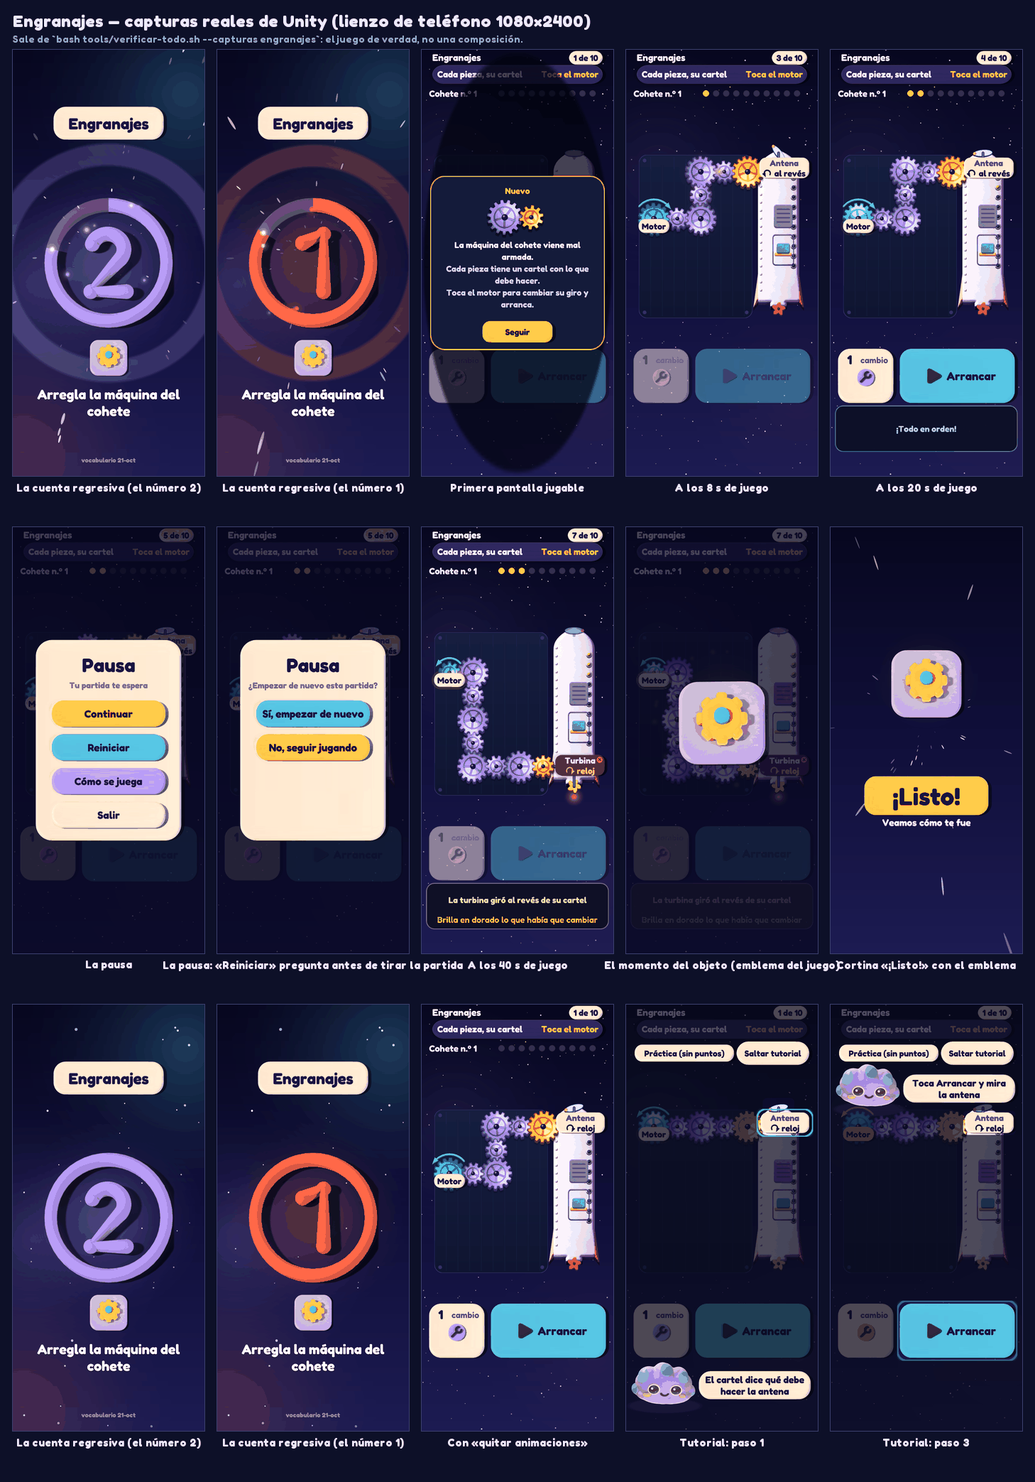
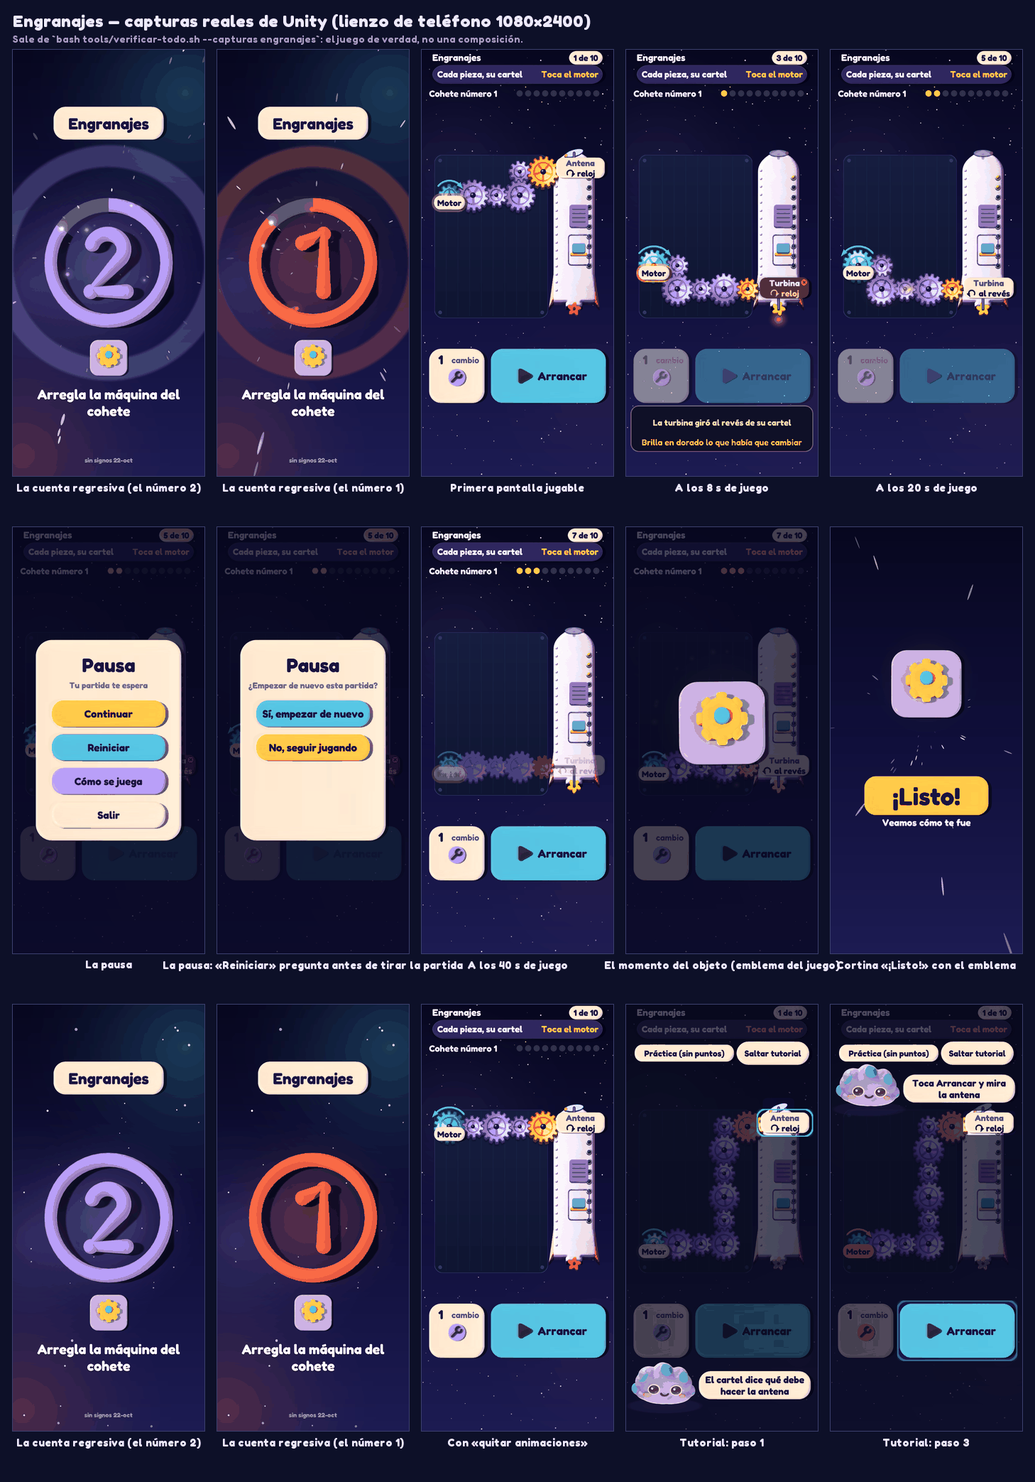
Tarea 161: Unity sin signos (sin "x", sin "n.o" y sin "%" pegado a la cifra)
Regla de Ricardo "sin palabras sueltas", la misma de la app desde la Tarea 160, ahora en lo que dibujan los juegos.

- GameHud: "3 seguidos" en lugar de "x3 seguidos" (sigue apareciendo desde 2).
- Correo: "Imparable! 20 seguidos", "Maestro del correo! 30 seguidos" y "Cartas bien puestas: 8 de 11 · 5 seguidas".
- Piloto: "Puntos dobles" y el chip "1.250 puntos dobles". Intrusa: "puntos dobles" y "50 % mas de puntos". Disparate: "Antena encendida: 50 % mas de puntos".
- Engranajes: "Cohete numero N" y "Tu cohete numero N"; la cabecera gana ancho (titulo de 160 dp, luces desde 184 cada 16).
- Aterrizaje: marcas de la regla y mision con espacio ante el "%" ("0 %", "40 %", "100 %") y "Aterrizaje 3" en lugar de "N.o 3" en el chip sin total.
- El "x" de Carga exacta (signo de multiplicar de la cuenta) se queda.
- HudRulesTests: guardia nueva (NoGameDrawsSignsOrGluedPercents_InItsSources) que falla con "x" (salvo ese operador), "n.o" y "%" pegado en textos visibles; ya atrapo un "N.o" en Aterrizaje.
- StyleStamp "sin signos 22-oct"; lamina docs/previews/tarea-161.png y documentacion al dia.

diff --git a/tools/previews/tarea_161.py b/tools/previews/tarea_161.py
@@ -1,0 +1,119 @@
+# -*- coding: utf-8 -*-
+"""Lámina «antes | después» de la Tarea 161, «Unity sin signos» (22-oct-2026): `docs/previews/tarea-161.png`.
+Lo que la 160 dejó anotado para los juegos de Unity, con la misma regla de Ricardo, «sin palabras sueltas»: nada de «×» (salvo el signo de multiplicar de la cuenta de Carga exacta), nada de «n.º» y un «%» nunca pegado a la cifra.
+La tabla lista CADA texto que cambió, por juego; debajo, capturas REALES de Unity en forma de teléfono (1080 × 2400, `bash tools/verificar-todo.sh --capturas <juego>`, tomas sueltas en `unity/test-results/capturas/<juego>/`, que no van a git).
+Uso:  python -I tools/previews/tarea_161.py [captura.png ...]      → docs/previews/tarea-161.png   (las capturas se pasan por ruta, con su rótulo tras «=»: ruta=rótulo)
+"""
+import os, sys
+from PIL import Image, ImageDraw, ImageFont
+
+sys.stdout.reconfigure(encoding='utf-8')
+HERE = os.path.dirname(os.path.abspath(__file__)); ROOT = os.path.abspath(os.path.join(HERE, '..', '..'))
+PREV = os.path.join(ROOT, 'docs', 'previews'); OUT = os.path.join(PREV, 'tarea-161.png')
+FONTS = os.path.join(ROOT, 'app', 'src', 'main', 'res', 'font')
+NAVY, SUN, DIM, CREAM, LIME = (20, 18, 63), (255, 203, 69), (200, 196, 235), (245, 235, 219), (155, 229, 100)
+W = 2000; MG = 40; COLW = (W - 2 * MG - 40) // 2
+
+
+def font(px, bold=True): return ImageFont.truetype(os.path.join(FONTS, 'fredoka.ttf' if bold else 'nunito_regular.ttf'), int(px))
+
+
+def wrap(d, text, fnt, width):
+    lines, cur = [], ''
+    for word in text.split(' '):
+        t = (cur + ' ' + word).strip()
+        if d.textlength(t, font=fnt) <= width: cur = t
+        else: lines.append(cur); cur = word
+    if cur: lines.append(cur)
+    return lines or ['']
+
+
+# ------------------------------------------------------------------ cada texto que cambió: (juego, [(antes, después)])
+TABLA = [
+    ('El marcador común (todos los juegos con aciertos seguidos)', [
+        ('×3 seguidos   (el chip aparece desde 2)', '3 seguidos   (sigue apareciendo desde 2)'),
+    ]),
+    ('Correo Estelar', [
+        ('¡Imparable! ×20   ·   ¡Maestro del correo! ×30', '¡Imparable! 20 seguidos   ·   ¡Maestro del correo! 30 seguidos'),
+        ('Cartas bien puestas: 8 de 11 · ×5 seguidas', 'Cartas bien puestas: 8 de 11 · 5 seguidas'),
+        ('Final del juego: «78 %» con «8 de 11 encargos cumplidos» debajo', 'Sin cambio: ya tenía el espacio ante el «%» y su «de qué» en la línea de abajo'),
+    ]),
+    ('Piloto Estelar', [
+        ('¡Hiperimpulso!  ·  Puntos ×2', '¡Hiperimpulso!  ·  Puntos dobles'),
+        ('1.250 puntos ×2   (el chip de puntos durante el hiperimpulso)', '1.250 puntos dobles'),
+    ]),
+    ('La estrella intrusa', [
+        ('La nombraste tú · puntos ×2', 'La nombraste tú · puntos dobles'),
+        ('¡Cielo despejado!  ·  Puntos × 1,5', '¡Cielo despejado!  ·  50 % más de puntos'),
+    ]),
+    ('¿Verdad o disparate?', [
+        ('¡Transmisión perfecta!  ·  Antena encendida: puntos × 1,5', '¡Transmisión perfecta!  ·  Antena encendida: 50 % más de puntos'),
+    ]),
+    ('Engranajes', [
+        ('Cohete n.º 3   (cabecera del cohete)', 'Cohete número 3   (el título pasa de 130 a 160 dp y las 10 luces empiezan en x = 184, cada 16: antes en 150, cada 19)'),
+        ('Tu cohete n.º 3 · va a la órbita   (el despegue)', 'Tu cohete número 3 · va a la órbita'),
+    ]),
+    ('Aterrizaje Lunar', [
+        ('Aterriza en 40%   (la misión)', 'Aterriza en 40 %'),
+        ('0%  …  100%   (las marcas de la regla de porcentajes)', '0 %  …  100 %'),
+        ('Arrastra la nave hasta el 40% y suelta   (el tutorial de Nubi)', 'Arrastra la nave hasta el 40 % y suelta'),
+        ('N.º 3   (el chip del marcador cuando la partida es con reloj y no tiene total; lo atrapó la guardia nueva)', 'Aterrizaje 3'),
+    ]),
+    ('Carga exacta', [
+        ('Se queda: el «×» de la cuenta es el signo de multiplicar de un operador, no un texto', 'Sin cambio (la guardia de `HudRulesTests` lo exceptúa por nombre)'),
+    ]),
+    ('Fuera de esta tarea (se piden aparte)', [
+        ('+12   (el «+N» que flota al sumar puntos, en seis juegos)', 'Sin cambio: es una cifra flotante, no una frase; si Ricardo lo quiere, es otra tarea'),
+    ]),
+]
+
+
+def main():
+    caps_args = [a for a in sys.argv[1:] if os.path.exists(a.split('=')[0])]
+    probe = ImageDraw.Draw(Image.new('RGB', (10, 10)))
+    F_T, F_H, F_P, F_B, F_C = font(58), font(34), font(24, False), font(25, False), font(22, False)
+    intro = ('Lo que la Tarea 160 dejó anotado para Unity, con la misma regla de Ricardo, «sin palabras sueltas»: ya no hay «×» (salvo el signo de multiplicar de Carga exacta), ni «n.º», ni un «%» pegado a la cifra. '
+             'Una guardia nueva en HudRulesTests (NoGameDrawsSignsOrGluedPercents_InItsSources) mira el código de los juegos y falla si vuelve alguno; el sello de las compilaciones de depuración pasa a «sin signos 22-oct».')
+    intro_l = wrap(probe, intro, F_P, W - 2 * MG)
+    H = MG + 70 + 32 * len(intro_l) + 62
+    bloques = []
+    for titulo, pares in TABLA:
+        filas = [(wrap(probe, a, F_B, COLW - 20), wrap(probe, b, F_B, COLW - 20)) for a, b in pares]
+        bloques.append((titulo, filas))
+        H += 60 + sum(max(len(la), len(lb)) * 31 + 18 for la, lb in filas) + 30
+    caps = []
+    for a in caps_args:
+        path, _, rot = a.partition('=')
+        im = Image.open(path).convert('RGB'); w = 440
+        im = im.resize((w, int(im.height * w / im.width)), Image.LANCZOS)
+        caps.append((rot or os.path.basename(path), im.crop((0, 0, w, min(im.height, 960)))))
+    if caps: H += 60 + max(i.height for _, i in caps) + 80
+    H += 40
+    sheet = Image.new('RGB', (W, H), NAVY); d = ImageDraw.Draw(sheet); y = MG
+    d.text((MG, y), 'Unity sin signos (Tarea 161): antes | después', font=F_T, fill=SUN); y += 70
+    for ln in intro_l: d.text((MG, y), ln, font=F_P, fill=CREAM); y += 32
+    d.text((MG, y + 4), 'Cada fila: a la izquierda, ANTES (gris); a la derecha, DESPUÉS (verde).', font=F_P, fill=DIM); y += 30 + 32
+    for titulo, filas in bloques:
+        d.text((MG, y), titulo, font=F_H, fill=SUN); y += 52
+        for la, lb in filas:
+            h = max(len(la), len(lb)) * 31 + 12
+            d.rounded_rectangle((MG, y, MG + COLW, y + h), radius=10, outline=(70, 74, 130), width=1)
+            d.rounded_rectangle((MG + COLW + 40, y, MG + 2 * COLW + 40, y + h), radius=10, outline=(70, 110, 80), width=1)
+            for i, ln in enumerate(la): d.text((MG + 10, y + 6 + i * 31), ln, font=F_B, fill=DIM)
+            for i, ln in enumerate(lb): d.text((MG + COLW + 50, y + 6 + i * 31), ln, font=F_B, fill=LIME)
+            y += h + 6
+        y += 30
+    if caps:
+        d.text((MG, y), 'Cómo queda (capturas reales de Unity en forma de teléfono)', font=F_H, fill=SUN); y += 56
+        x = MG; h = max(i.height for _, i in caps)
+        for rot, im in caps:
+            sheet.paste(im, (x, y)); d.rectangle((x, y, x + im.width - 1, y + im.height - 1), outline=(70, 74, 130), width=1)
+            for k, ln in enumerate(wrap(probe, rot, F_C, im.width)): d.text((x, y + im.height + 6 + k * 26), ln, font=F_C, fill=LIME)
+            x += im.width + 24
+        y += h + 80
+    sheet = sheet.crop((0, 0, W, y + 20)); sheet.save(OUT)
+    print('ok', OUT, sheet.size, '· capturas:', len(caps))
+
+
+if __name__ == '__main__':
+    main()

diff --git a/unity/NeuroVidaCore/Assets/Scripts/Games/Tests/HudRulesTests.cs b/unity/NeuroVidaCore/Assets/Scripts/Games/Tests/HudRulesTests.cs
@@ -341,6 +341,35 @@ namespace NeuroVida.Games.Tests
             Assert.IsEmpty(found, "palabras desterradas en lo que se dibuja:\n" + string.Join("\n", found));
         }
 
+        private static readonly Regex GluedPercent = new Regex(@"(^|\d)%");
+        private static readonly Regex AbbreviatedNumber = new Regex(@"[nN]\.º");
+
+        /// <summary>
+        /// Sin signos ni abreviaturas en lo que se dibuja (Tarea 161; regla de Ricardo «sin palabras sueltas», la misma que la app desde la Tarea 160): nada de «×» (la excepción es el «×» de la cuenta de Carga exacta: es el signo de multiplicar de un operador, no un texto),
+        /// nada de «n.º» (se dice «número») y un «%» nunca pegado a la cifra: «40 %», no «40%» (tampoco el «%» suelto de una concatenación, <c>p + "%"</c>). Los juegos retirados, los <c>Debug.Log</c> y lo del Editor quedan fuera.
+        /// </summary>
+        [Test]
+        public void NoGameDrawsSignsOrGluedPercents_InItsSources()
+        {
+            var found = new List<string>();
+            foreach (var (rel, line, text, _) in DrawnStringLiterals())
+            {
+                if (text.Contains("×") && !(rel == "Calculo/CalculoContract.cs" && text == "×")) found.Add(rel + ":" + line + " «" + text + "» dice «×»");
+                if (AbbreviatedNumber.IsMatch(text)) found.Add(rel + ":" + line + " «" + text + "» dice «n.º»");
+                if (GluedPercent.IsMatch(text)) found.Add(rel + ":" + line + " «" + text + "» trae el «%» pegado a la cifra");
+            }
+            Assert.IsEmpty(found, "signos y abreviaturas en lo que se dibuja («3 seguidos», «número 3», «40 %»):\n" + string.Join("\n", found));
+        }
+
+        [Test]
+        public void TheSignsGuard_CatchesWhatItShould_AndLetsThroughWhatIsAllowed()
+        {
+            foreach (var bad in new[] { "×3 seguidos", "Puntos × 1,5", "Cohete n.º 3", "40%", "%", "100%" })
+                Assert.IsTrue(bad.Contains("×") || AbbreviatedNumber.IsMatch(bad) || GluedPercent.IsMatch(bad), "la guardia no atrapa «" + bad + "»");
+            foreach (var good in new[] { "3 seguidos", "50 % más de puntos", "Cohete número 3", "40 %", "0 %", "a 5 % del blanco" })
+                Assert.IsFalse(AbbreviatedNumber.IsMatch(good) || GluedPercent.IsMatch(good), "la guardia atrapa «" + good + "» sin motivo");
+        }
+
         // ------------------------------------------------------------------ puntos de avance
 
         [Test]

diff --git a/unity/NeuroVidaCore/Assets/Scripts/Games/Engranajes/EngranajesGameController.Build.cs b/unity/NeuroVidaCore/Assets/Scripts/Games/Engranajes/EngranajesGameController.Build.cs
@@ -248,7 +248,7 @@ namespace NeuroVida.Games.Engranajes
             _rocketTitle = MakeLabel(_stripLayer, "Title", 17f, UiFonts.Bold, ButtonText, TextAnchor.MiddleLeft);
             _orbitText = MakeLabel(_stripLayer, "Orbit", 16f, UiFonts.Regular, Lavender, TextAnchor.MiddleLeft);
             _rocketTitle.horizontalOverflow = _orbitText.horizontalOverflow = HorizontalWrapMode.Overflow;
-            _rocketTitle.text = "Cohete n.º 1";
+            _rocketTitle.text = "Cohete número 1";
         }
 
         /// <summary>La consigna de arriba, en dos líneas: «Que cada pieza cumpla su cartel» y lo que se puede hacer en la etapa.</summary>
@@ -834,12 +834,12 @@ namespace NeuroVida.Games.Engranajes
             _sceneRoot.anchoredPosition = P(EngranajesLayout.W / 2f + EngranajesLayout.SceneShiftX, _lay.SceneCenterLogicalY);
             foreach (var kv in _sceneFonts) kv.Key.fontSize = Mathf.RoundToInt(kv.Value * Su / k);
 
-            // cabecera: «Cohete n.º N», las 10 luces (x = 150 + 19 k) y los cohetes en órbita
+            // cabecera: «Cohete número N», las 10 luces (x = LightsX0 + LightsStep k) y los cohetes en órbita
             float row1 = _lay.StripTop + 14f, row2 = _lay.StripTop + 34f;
-            SetRect(_rocketTitle.rectTransform, 14f + 65f, row1, 130f, 24f);
+            SetRect(_rocketTitle.rectTransform, 14f + EngranajesLayout.TitleW / 2f, row1, EngranajesLayout.TitleW, 24f);
             SetRect(_orbitText.rectTransform, 14f + 100f, row2, 200f, 20f);
-            for (int i = 0; i < _lights.Length; i++) SetRect(_lights[i].rectTransform, 150f + i * 19f, row1, 12f, 12f);
-            SetRect(_stripGlow.rectTransform, 150f, row1, 36f, 36f);
+            for (int i = 0; i < _lights.Length; i++) SetRect(_lights[i].rectTransform, EngranajesLayout.LightsX0 + i * EngranajesLayout.LightsStep, row1, 12f, 12f);
+            SetRect(_stripGlow.rectTransform, EngranajesLayout.LightsX0, row1, 36f, 36f);
 
             // consigna: dos líneas
             float qy = _lay.QuestionTop + EngranajesLayout.QuestionH / 2f;

diff --git a/unity/NeuroVidaCore/Assets/Scripts/Games/Correo/MailContract.cs b/unity/NeuroVidaCore/Assets/Scripts/Games/Correo/MailContract.cs
@@ -277,7 +277,7 @@ namespace NeuroVida.Games.Correo
         public static string FloatCombo(int combo)
         {
             int tier = combo / ComboStep;
-            return tier <= 1 ? "¡" + combo + " seguidos!" : tier == 2 ? "¡Imparable! ×" + combo : "¡Maestro del correo! ×" + combo;
+            return tier <= 1 ? "¡" + combo + " seguidos!" : tier == 2 ? "¡Imparable! " + combo + " seguidos" : "¡Maestro del correo! " + combo + " seguidos";
         }
         public static string RadioText(MailMoment m) => "hoy NO hace falta encender el faro " + MomentPhrase(m);
 
@@ -287,7 +287,7 @@ namespace NeuroVida.Games.Correo
         public static string EncargosLine(int ok, int all) => all <= 0 ? "Encargos: 0" : "Encargos: " + ok + " de " + all;
         public static string RecapTag(int day) => "Fin del día " + day;
         public static string RecapTitle(int ok, int all) => ok == all ? "¡Todos los encargos!" : "Encargos: " + ok + " de " + all;
-        public static string RecapCards(int right, int total, int bestCombo) => "Cartas bien puestas: " + right + " de " + total + " · ×" + bestCombo + " seguidas";
+        public static string RecapCards(int right, int total, int bestCombo) => "Cartas bien puestas: " + right + " de " + total + " · " + bestCombo + " seguidas";
         public static string RecapClock(int peeks, int good) => "Reloj: lo miraste " + peeks + (peeks == 1 ? " vez" : " veces") + ", " + good + " cerca de la hora";
         public const string RecapRecord = "¡Nuevo récord de cartas en un día perfecto!";
         public const string RecapUp = "Mañana: un poco más difícil", RecapSame = "Mañana: mismo ritmo";

diff --git a/unity/NeuroVidaCore/Assets/Scripts/Games/Engranajes/EngranajesGameController.cs b/unity/NeuroVidaCore/Assets/Scripts/Games/Engranajes/EngranajesGameController.cs
@@ -403,7 +403,7 @@ namespace NeuroVida.Games.Engranajes
             _launchAt = before;
             _launchNumber = _shownOrbit + 1;
             _launchTitle.text = "¡Despegue!";
-            _launchLine1.text = "Tu cohete n.º " + _launchNumber;
+            _launchLine1.text = "Tu cohete número " + _launchNumber;
             _launchLine2.text = "va a la órbita";
             _launchLayer.gameObject.SetActive(true);
             EngranajesSounds.Play(EngranajesSfx.Launch);                  // el despegue: un propio de HITO (no el Record de la app)
@@ -447,7 +447,7 @@ namespace NeuroVida.Games.Engranajes
         {
             t.BeginPractice();
             _guided = true;
-            _stripLayer.gameObject.SetActive(false);                    // «Cohete n.º N» y las 10 luces: en la práctica ese lugar es de la fila fija del tutorial (Tarea 127)
+            _stripLayer.gameObject.SetActive(false);                    // «Cohete número N» y las 10 luces: en la práctica ese lugar es de la fila fija del tutorial (Tarea 127)
             while (!_baked) yield return null;                         // el arte se hornea mientras Nubi se presenta
             var coach = t.Coach;
             // «Nubi entrenadora»: una máquina de la etapa 1 en la que la antena viene fallando, con tres focos. Los dos de «tocar» congelan el juego y el toque en el hueco es el de verdad:

diff --git a/unity/NeuroVidaCore/Assets/Scripts/Games/Correo/Tests/MailContractTests.cs b/unity/NeuroVidaCore/Assets/Scripts/Games/Correo/Tests/MailContractTests.cs
@@ -820,9 +820,10 @@ namespace NeuroVida.Games.Correo.Tests
             Assert.AreEqual("Si llega una carta con lazo,", MailContract.CueLineA(MailCue.Lazo));
             Assert.AreEqual("Se pasó la hora: al anochecer", MailContract.FloatLateWindow(MailMoment.Noche));
             Assert.AreEqual("¡10 seguidos!", MailContract.FloatCombo(10));
-            Assert.AreEqual("¡Imparable! ×20", MailContract.FloatCombo(20));
-            Assert.AreEqual("¡Maestro del correo! ×30", MailContract.FloatCombo(30));
-            Assert.AreEqual("¡Maestro del correo! ×40", MailContract.FloatCombo(40));
+            Assert.AreEqual("¡Imparable! 20 seguidos", MailContract.FloatCombo(20));
+            Assert.AreEqual("¡Maestro del correo! 30 seguidos", MailContract.FloatCombo(30));
+            Assert.AreEqual("¡Maestro del correo! 40 seguidos", MailContract.FloatCombo(40));
+            Assert.AreEqual("Cartas bien puestas: 8 de 11 · 5 seguidas", MailContract.RecapCards(8, 11, 5), "sin «×»: el número y su palabra");
             Assert.AreEqual("hoy NO hace falta encender el faro a media tarde", MailContract.RadioText(MailMoment.Tarde));
             Assert.AreEqual("Día 2 de 4", MailContract.DayTitle(2));
             Assert.AreEqual("Día 3 de 4", MailContract.DayHud(3));

diff --git a/unity/NeuroVidaCore/Assets/Scripts/Games/Aterrizaje/LandingContract.cs b/unity/NeuroVidaCore/Assets/Scripts/Games/Aterrizaje/LandingContract.cs
@@ -196,9 +196,9 @@ namespace NeuroVida.Games.Aterrizaje
             t.Min = 0;
             t.Max = 100;
             t.Target = p;
-            t.Label = p + "%";
-            t.MinLabel = "0%";
-            t.MaxLabel = "100%";
+            t.Label = p + " %";
+            t.MinLabel = "0 %";
+            t.MaxLabel = "100 %";
             t.MidTick = false;
             t.Unit = true;
         }
@@ -309,7 +309,7 @@ namespace NeuroVida.Games.Aterrizaje
         public const int HintTrials = 3;
         public const string BullNotice = "¡Diana lunar!", DomeNotice = "¡Nueva cúpula en tu base!";
 
-        public static string RoundChip(int n, int total) => total > 0 ? Math.Min(n, total) + " de " + total : "N.º " + n;
+        public static string RoundChip(int n, int total) => total > 0 ? Math.Min(n, total) + " de " + total : "Aterrizaje " + n;
         public static string StreakChip(int streak) => streak + " seguidos";
 
         /// <summary>Cómo salió el aterrizaje.</summary>

diff --git a/unity/NeuroVidaCore/Assets/Scripts/Games/Piloto/PilotContract.cs b/unity/NeuroVidaCore/Assets/Scripts/Games/Piloto/PilotContract.cs
@@ -253,8 +253,8 @@ namespace NeuroVida.Games.Piloto
         public const string CountdownSub = "Guía la nave y atrapa tu misión";
         public const string StripLabel = "‹  Desliza aquí  ›", StripLabelGentle = "‹  Desliza aquí para guiar la nave  ›", StripHint = "Con el otro dedo, toca solo tu misión";
         public const string WrongText = "No era de tu misión", GoneText = "Se fue";
-        public const string HyperTitle = "¡Hiperimpulso!", HyperSub = "Puntos ×2";
-        public const string HyperChip = " ×2";
+        public const string HyperTitle = "¡Hiperimpulso!", HyperSub = "Puntos dobles";
+        public const string HyperChip = " dobles";
         public static string PointsText(int points) => points.ToString("#,0", System.Globalization.CultureInfo.InvariantCulture).Replace(',', '.') + " pts";
         public static string PrecisionChip(int resolved, int total = PrecisionSignals) => Math.Min(resolved, total) + " de " + total;
 

diff --git a/unity/NeuroVidaCore/Assets/Scripts/Games/Engranajes/EngranajesGameController.Scene.cs b/unity/NeuroVidaCore/Assets/Scripts/Games/Engranajes/EngranajesGameController.Scene.cs
@@ -706,7 +706,7 @@ namespace NeuroVida.Games.Engranajes
 
         public void RefreshStrip()
         {
-            _rocketTitle.text = "Cohete n.º " + (_shownOrbit + 1);
+            _rocketTitle.text = "Cohete número " + (_shownOrbit + 1);
             _orbitText.text = _shownOrbit > 0 ? $"{_shownOrbit} {(_shownOrbit == 1 ? "cohete" : "cohetes")} en órbita" : "";
         }
 
@@ -808,7 +808,7 @@ namespace NeuroVida.Games.Engranajes
             }
             bool deco = Motion.Decorative;
             int idx = Mathf.Clamp(_shownLights, 0, EngranajesContract.RocketLights - 1);
-            var to = new Vector2(150f + idx * 19f, _lay.StripTop + 14f);
+            var to = new Vector2(EngranajesLayout.LightsX0 + idx * EngranajesLayout.LightsStep, _lay.StripTop + 14f);
             float k = (now - _flyerAt) / (deco ? 0.7f : 0.01f);
             if (k >= 1f)
             {

diff --git a/unity/NeuroVidaCore/Assets/Scripts/Games/Intrusa/IntrusaGameController.cs b/unity/NeuroVidaCore/Assets/Scripts/Games/Intrusa/IntrusaGameController.cs
@@ -995,7 +995,7 @@ namespace NeuroVida.Games.Intrusa
             _rule.gameObject.SetActive(true);
             _rule.canvasRenderer.SetAlpha(0f);
             _named.gameObject.SetActive(named);
-            _named.text = "La nombraste tú · puntos ×2";
+            _named.text = "La nombraste tú · puntos dobles";
             _named.canvasRenderer.SetAlpha(0f);
 
             float t = 0f;
@@ -1039,7 +1039,7 @@ namespace NeuroVida.Games.Intrusa
             if (clear && !_clearShown)
             {
                 _clearShown = true;
-                _toast.Show("¡Cielo despejado!", "Puntos × 1,5", AmberColor, 1.2f);
+                _toast.Show("¡Cielo despejado!", "50 % más de puntos", AmberColor, 1.2f);
                 GameFeel.LevelUp();
             }
             else if (!clear) _clearShown = false;

diff --git a/unity/NeuroVidaCore/Assets/Scripts/Games/Disparate/DisparateGameController.cs b/unity/NeuroVidaCore/Assets/Scripts/Games/Disparate/DisparateGameController.cs
@@ -791,7 +791,7 @@ namespace NeuroVida.Games.Disparate
         private IEnumerator PerfectTransmission()
         {
             // 10 seguidas: la antena se enciende (× 1,5) y una aurora suave cruza el cielo
-            _toast.Show("¡Transmisión perfecta!", "Antena encendida: puntos × 1,5", AmberColor, 1.4f, sound: false);       // ya suena su Streak: el aviso va mudo
+            _toast.Show("¡Transmisión perfecta!", "Antena encendida: 50 % más de puntos", AmberColor, 1.4f, sound: false);       // ya suena su Streak: el aviso va mudo
             WoodCore.Play(WoodSfx.Streak);                              // un hito de racha (× 1,5), no un nivel: solo el Streak (se quitó el LevelUp que sonaba encima)
             if (GameFeel.ReduceMotion) yield break;
             float t = 0f;

diff --git a/unity/NeuroVidaCore/Assets/Scripts/Games/Shared/CountdownScreen.cs b/unity/NeuroVidaCore/Assets/Scripts/Games/Shared/CountdownScreen.cs
@@ -47,7 +47,7 @@ namespace NeuroVida.Games.Shared
         /// <summary>Muestra la marca de version bajo la cuenta regresiva. Antes dependia de <c>Debug.isDebugBuild</c>,
         /// pero la exportacion de Unity es de produccion y nunca se veia. Poner en false antes de publicar en la tienda.</summary>
         public const bool ShowStyleStamp = true;
-        public const string StyleStamp = "vocabulario 21-oct";
+        public const string StyleStamp = "sin signos 22-oct";
 
         private static readonly Color[] StepColors = { NeuroStyle.Sky, NeuroStyle.Grape, NeuroStyle.Coral };
         private static readonly float[] StepWarp = { 0.07f, 0.15f, 0.27f };
